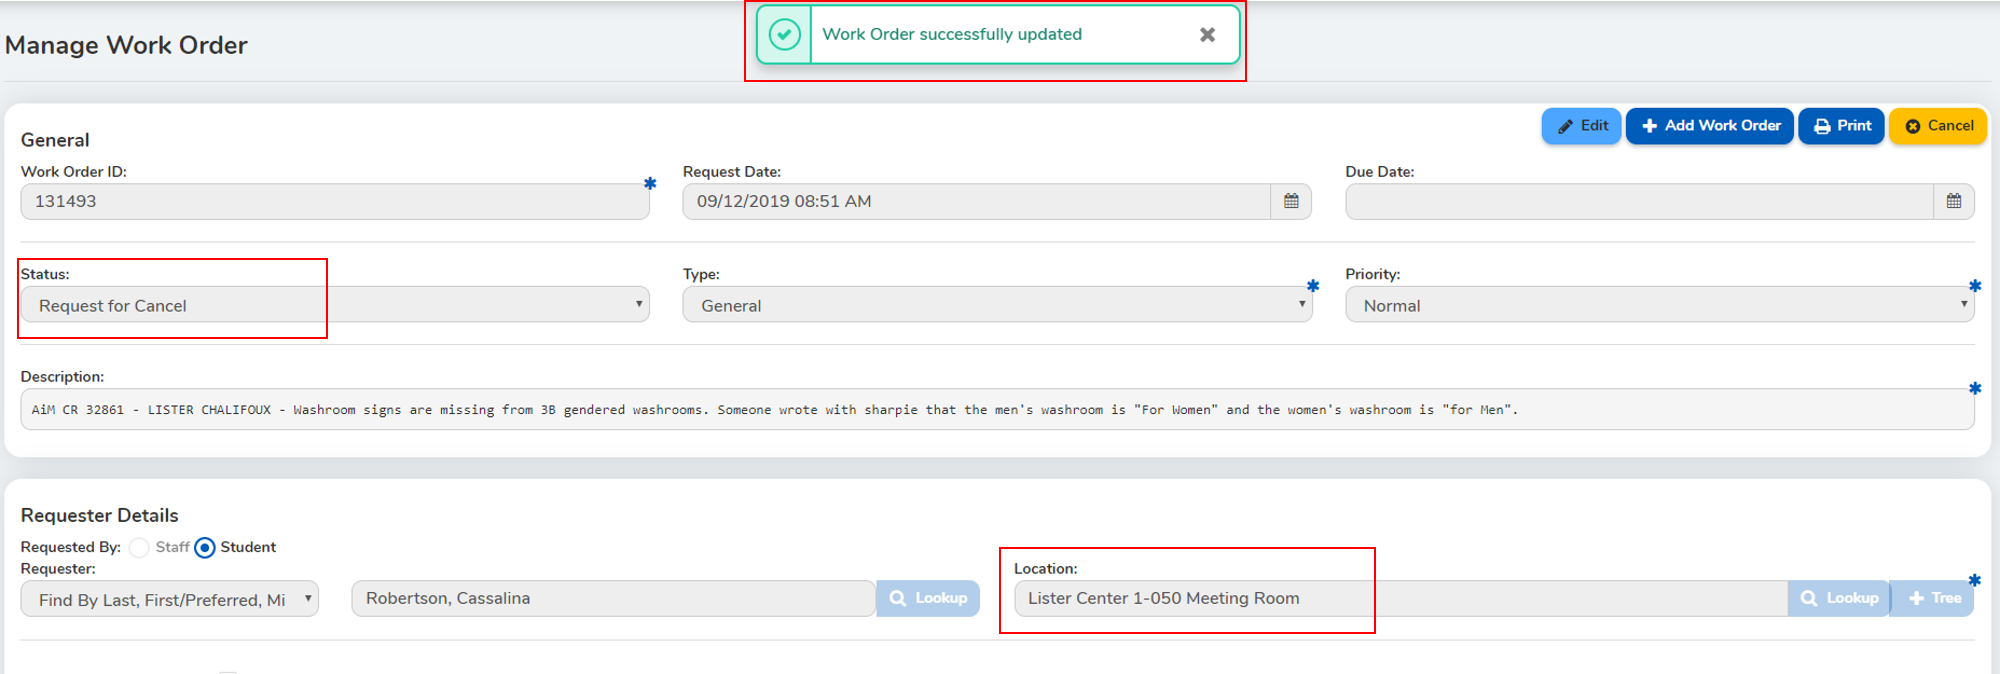
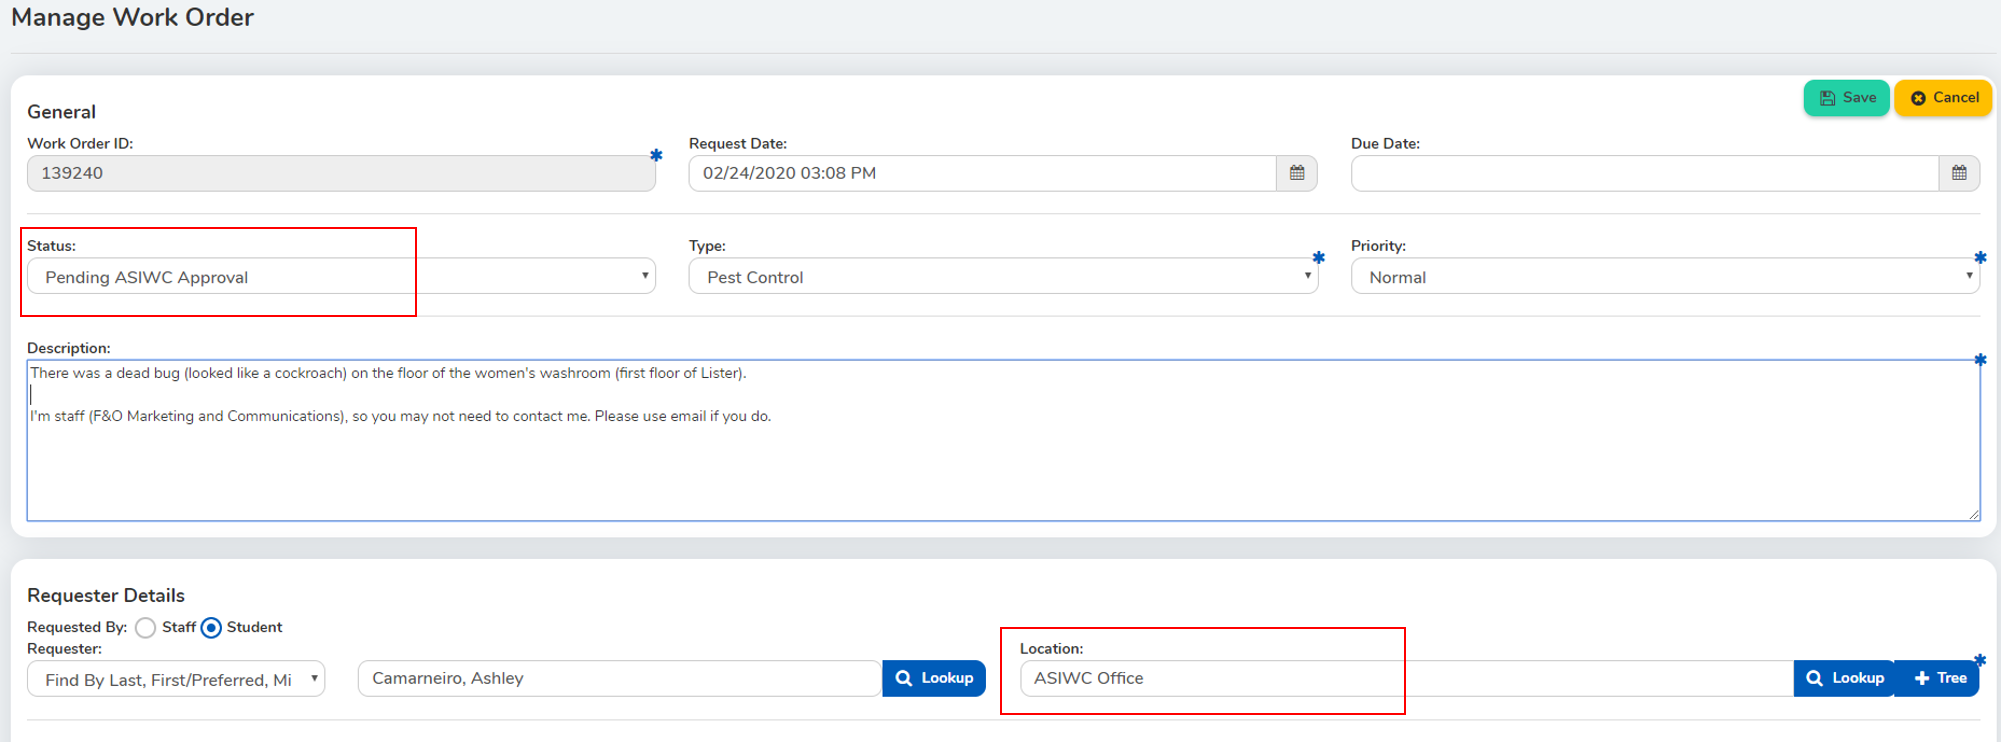
updated

diff --git a/Steps in ResCenter.md b/Steps in ResCenter.md
@@ -35,10 +35,14 @@
 
 # Exceptions
 
-1. In some cases, the mandatory location field is missing, capture the error.
+1. If WO type is either "Contractor" or "Pest Control", then this record **won't** be logged into AiM, and status will be changed to "**Pending ASIWC Approval**".
+
+2. In some cases, the mandatory location field is missing, capture the error.
 
    ![exception1](images/res_exception1.png)
 
-   change status to "Request for Cancel"(**to be changed**), auto fill location to "Lister Center 1-050 Meeting Room" (**to be changed**)
+   change status to "Pending ASIWC Approval", auto fill location to "ASIWC Office"
 
    ![exception2](images/res_exception2.png)
+
+   
